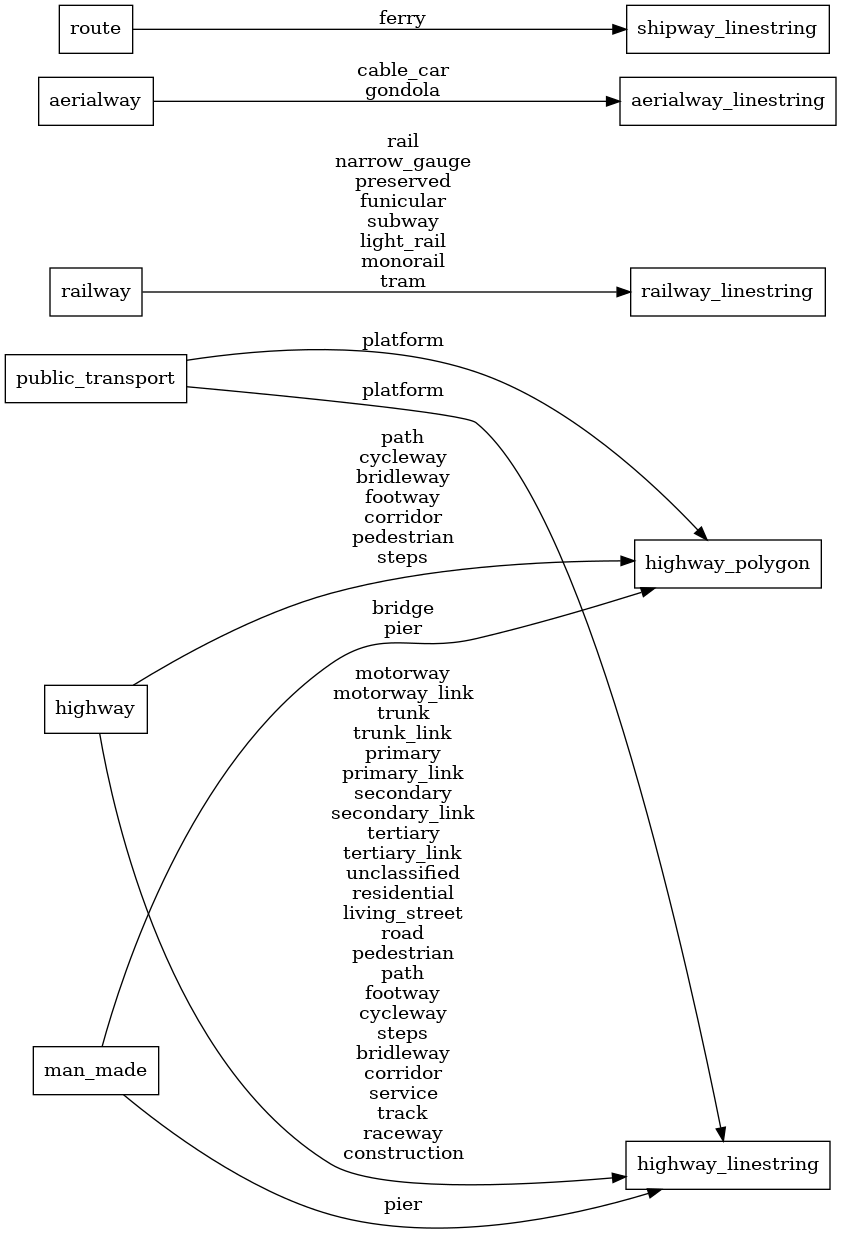
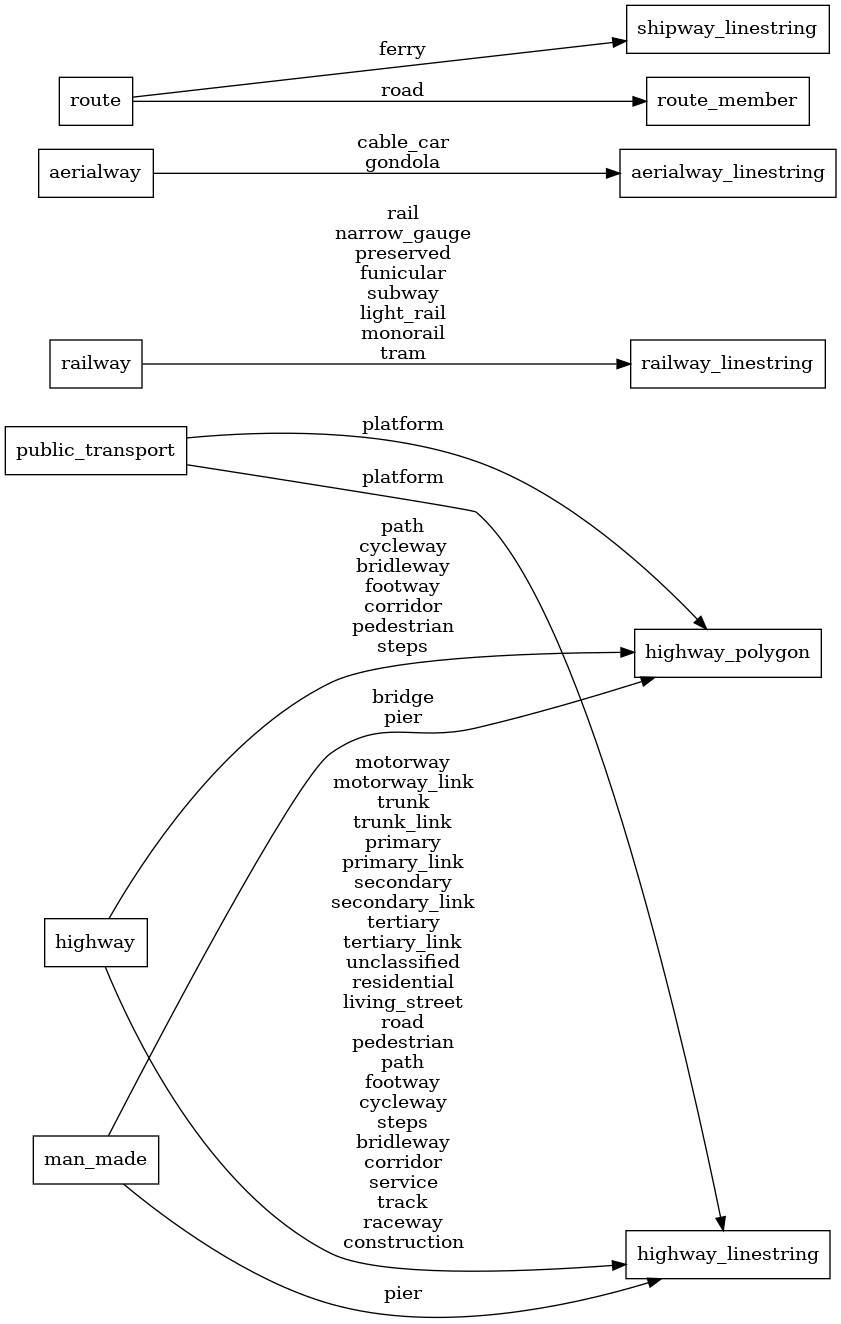
Use one pass docs image generation
Requires https://github.com/openmaptiles/openmaptiles-tools/pull/147

quicker and cleaner diagram image generation.
Remove etl-graph and mapping-graph targets - redundant

Several images have been updated due to a more inclusive mapping scan

diff --git a/CONTRIBUTING.md b/CONTRIBUTING.md
@@ -32,15 +32,11 @@ Your pull request must:
  * Use clear commit messages.
  * Be possible to merge automatically.
 
-When you modify rules of importing data in `mapping.yaml` or `*.sql`, please update also:
+When you modify import data rules in `mapping.yaml` or `*.sql`, please update:
 
 1. field description in `[layer].yaml`
 2. comments starting with `#etldoc`
-3. if needed, generate new `mapping_diagram.png` or `etl_diagram.png` using commands below:
-```
-make mapping-graph-[layer]
-make etl-graph-[layer]
-```
+3. regenerate documentation graphs with `make generate-devdoc`
 4. update layer description on https://openmaptiles.org/schema/ (https://github.com/openmaptiles/www.openmaptiles.org/tree/master/layers)
 5. check if OMT styles are affected by the PR and if there is a need for style updates
 
